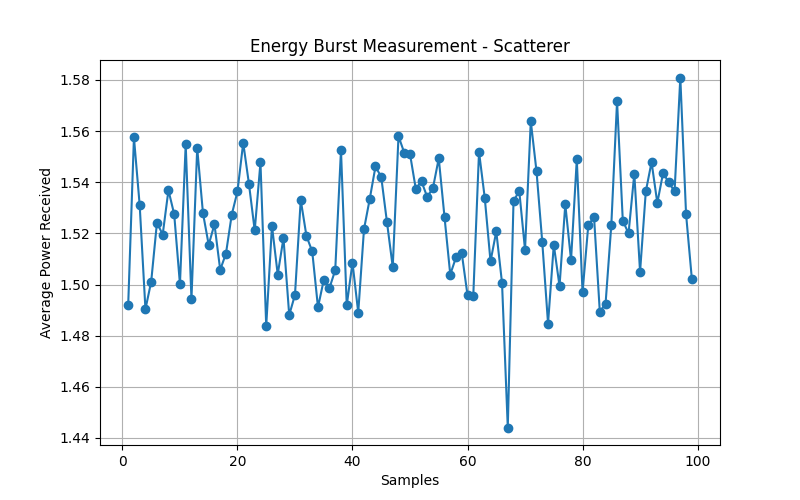
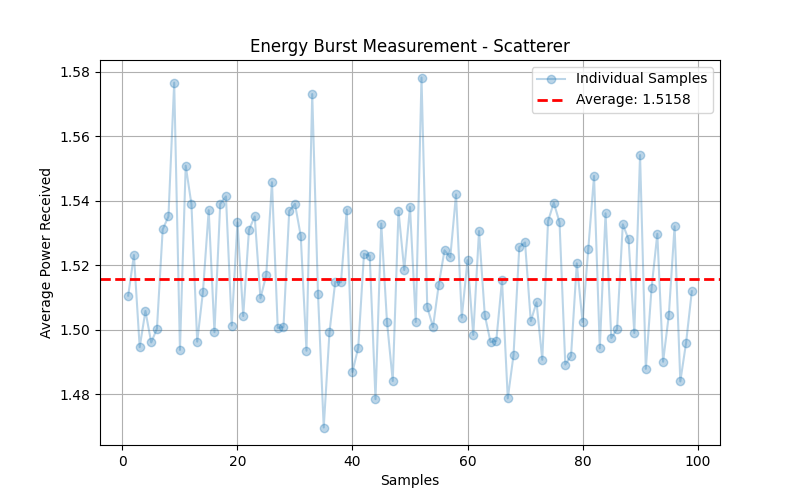
more optimization

diff --git a/GUI/main.py b/GUI/main.py
@@ -571,7 +571,7 @@ def oam_page():
             }
             ui.notify("successfully recorded burst")
     
-        #Set up containers for images to be placed in later
+#Set up containers for images to be placed in later
         baseline_container=ui.row()\
             .classes('justify-center items-center')\
             .style('order:4; width:90%;')
@@ -582,23 +582,35 @@ def oam_page():
             .classes('justify-center items-center')\
             .style('order:11; width:90%;')
 
+        baseline_container_plane=ui.row()\
+            .classes('justify-center items-center')\
+            .style('order:17; width:90%;')
+
         scatterer_container_plane=ui.row()\
             .classes('justify-center items-center')\
-            .style('order:19; width:90%;')
+            .style('order:21; width:90%;')
 
         difference_container_plane=ui.row()\
             .classes('justify-center items-center')\
-            .style('order:22; width:90%;')
+            .style('order:24; width:90%;')
 
         comparison_container=ui.row()\
             .classes('justify-center items-center')\
-            .style('order:25; width: 90%')
+            .style('order:27; width: 90%')
         
-        def plot_no_scatterer():
+        def plot_no_scatterer(plane=False):
             ''' Record burst data then plot it '''
             global burst_data_oam
-            record_burst('baseline')
-            e_b = burst_data_oam['baseline']['energy']
+            if not plane:
+                record_burst('baseline')
+                e_b = burst_data_oam['baseline']['energy']
+                title_suffix = 'Baseline (Structured Wave)'
+                save_path = 'media/baseline.png'
+            else:
+                record_burst('baseline_plane')
+                e_b = burst_data_oam['baseline_plane']['energy']
+                title_suffix = 'Baseline (Plane Wave)'
+                save_path = 'media/baseline_plane.png'
             
             # Calculate average
             e_b_avg = np.mean(e_b[1:])
@@ -613,16 +625,21 @@ def oam_page():
             plt.axhline(y=e_b_avg, color='r', linestyle='--', linewidth=2, label=f'Average: {e_b_avg:.4f}')
             plt.xlabel("Samples")
             plt.ylabel("Average Power Received")
-            plt.title('Energy Burst Measurement - Baseline')
+            plt.title(f'Energy Burst Measurement - {title_suffix}')
             plt.grid(True)
             plt.legend(loc='best')
-            plt.savefig('media/baseline.png')
+            plt.savefig(save_path)
             plt.close()
             
             # Update ui image
-            baseline_container.clear()
-            with baseline_container:
-                ui.image('media/baseline.png').style('width:60%;').force_reload()
+            if not plane:
+                baseline_container.clear()
+                with baseline_container:
+                    ui.image('media/baseline.png').style('width:60%;').force_reload()
+            else:
+                baseline_container_plane.clear()
+                with baseline_container_plane:
+                    ui.image('media/baseline_plane.png').style('width:60%;').force_reload()
 
 
         def plot_scatterer(plane=False):
@@ -674,7 +691,7 @@ def oam_page():
             if not plane:
                 e_diff = burst_data_oam['scatterer']['energy'] - burst_data_oam['baseline']['energy']
             else:
-                e_diff = burst_data_oam['scatterer_plane']['energy'] - burst_data_oam['baseline']['energy']
+                e_diff = burst_data_oam['scatterer_plane']['energy'] - burst_data_oam['baseline_plane']['energy']
             
             # Calculate average
             e_diff_avg = np.mean(e_diff[1:])
@@ -711,7 +728,7 @@ def oam_page():
 
         def plot_comparison():
             e_diff_structured = burst_data_oam['scatterer']['energy'] - burst_data_oam['baseline']['energy']
-            e_diff_plane = burst_data_oam['scatterer_plane']['energy'] - burst_data_oam['baseline']['energy']
+            e_diff_plane = burst_data_oam['scatterer_plane']['energy'] - burst_data_oam['baseline_plane']['energy']
             
             # Calculate averages
             e_diff_structured_avg = np.mean(e_diff_structured[1:])
@@ -754,22 +771,23 @@ def oam_page():
             else:
                 ui.notify('Sucessfully sent phases')
 
-        # Step 3: measure baseline
-        ui.label("Step 3: Measure Baseline").style('order: 1;')
+        # Step 3: measure baseline (structured wave)
+        ui.label("Step 3: Measure Baseline (Structured Wave)").style('order: 1;')
         ui.image('media/Step2.jpeg').style('order: 2; width: 30%;')
         ui.button("Start", on_click=plot_no_scatterer).style('order: 3;')
         # baseline_container has order: 4
 
-        # Step 4: measure scattering
-        ui.label("Step 4: Measure Scattering").style('order: 5;')
+        # Step 4: measure scattering (structured wave)
+        ui.label("Step 4: Measure Scattering (Structured Wave)").style('order: 5;')
         ui.image('media/Step3.jpeg').style('order: 6; width: 30%;')
         ui.button("Start", on_click=plot_scatterer).style('order: 7;')
         # scatterer_container has order: 8
 
-        # Step 5: show difference
-        ui.label("Step 5: Show Difference").style('order: 9;')
+        # Step 5: show difference (structured wave)
+        ui.label("Step 5: Show Difference (Structured Wave)").style('order: 9;')
         ui.button("Show Difference", on_click=plot_difference).style('order: 10;')
         # difference_container has order: 11
+
         # Step 6: User estimate the angle to the scatterer given the coordinate system: 
         ui.label("Step 6: Approximate Scatterer Location to Illuminate with Standard Plane Wave").style('order:12')
         ui.label("Use the following coordinate system to define your angles").style('order:13')
@@ -792,18 +810,26 @@ def oam_page():
              
             ui.button("Send Phases", on_click=lambda: send_phases_for_planewave(theta.value,phi.value))
     
-        #Step 7 Measure Scattering
-        ui.label("Step 7: Measure Scattering from Plane Wave").style('order: 16;')
-        ui.image('media/Step3.jpeg').style('order: 17; width: 30%;')
-        ui.button("Start", on_click=lambda:plot_scatterer(plane=True)).style('order: 18;')
+        # Step 7: Measure baseline (plane wave)
+        ui.label("Step 7: Measure Baseline (Plane Wave)").style('order: 16;')
+        ui.button("Start", on_click=lambda:plot_no_scatterer(plane=True)).style('order: 16;')
+        # baseline_container_plane has order: 17
 
-        #Step 8 Perform Subtraction
-        ui.label("Step 8: Show Difference (Planewave - Basline Scattering)").style('order: 20;')
-        ui.button("Show Difference", on_click=lambda:plot_difference(plane=True)).style('order: 21;')
+        # Step 8: Measure Scattering (plane wave)
+        ui.label("Step 8: Measure Scattering (Plane Wave)").style('order: 18;')
+        ui.image('media/Step3.jpeg').style('order: 19; width: 30%;')
+        ui.button("Start", on_click=lambda:plot_scatterer(plane=True)).style('order: 20;')
+        # scatterer_container_plane has order: 21
 
-        #Step 9 Compre the plane wave illuminaiton and structured illumination scattering 
-        ui.label("Step 9: Compare the scattering under different illuminations").style('order: 23;')
-        ui.button('Compare', on_click=lambda:plot_comparison()).style('order: 24;')
+        # Step 9: Perform Subtraction (plane wave)
+        ui.label("Step 9: Show Difference (Plane Wave - Baseline)").style('order: 22;')
+        ui.button("Show Difference", on_click=lambda:plot_difference(plane=True)).style('order: 23;')
+        # difference_container_plane has order: 24
+
+        # Step 10: Compare the plane wave illumination and structured illumination scattering 
+        ui.label("Step 10: Compare the scattering under different illuminations").style('order: 25;')
+        ui.button('Compare', on_click=lambda:plot_comparison()).style('order: 26;')
+        # comparison_container has order: 27
         
 
 #----END OAM MODE ----
